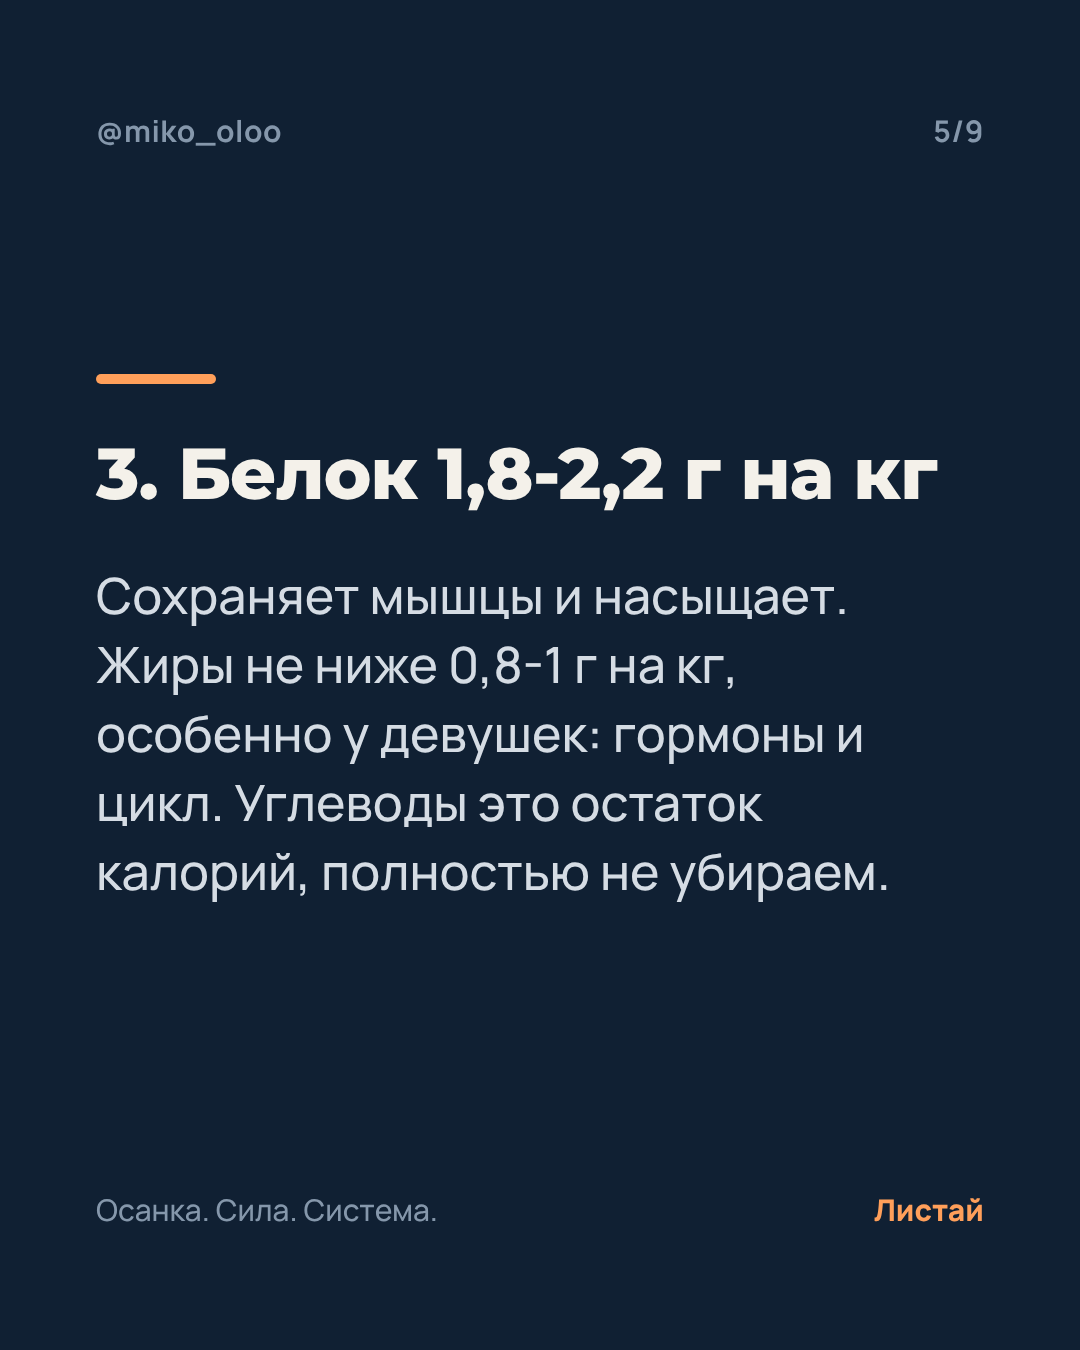
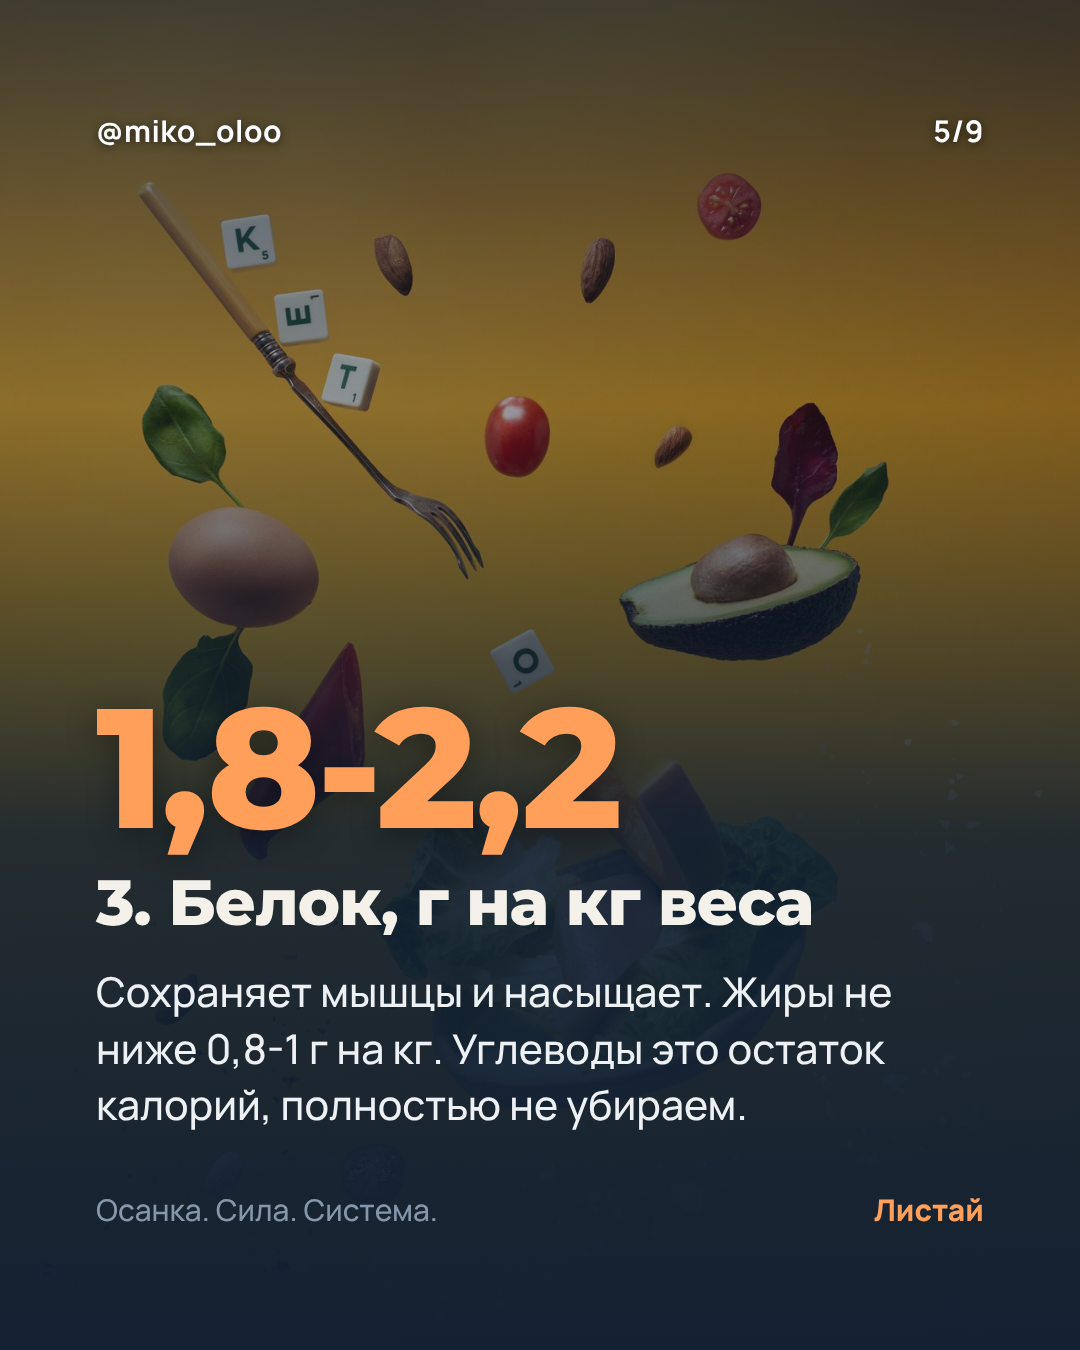
Карусели 2 и 3: фото по теме слайда на всех слайдах кроме одного, обложки с фото, источники и лицензии
Claude-Session: https://claude.ai/code/session_014b6iEBjPGyacsH4fnBbVwQ

diff --git a/content/carousels/img/SOURCES.md b/content/carousels/img/SOURCES.md
@@ -13,3 +13,21 @@
 | Файл | Что | Согласие |
 |---|---|---|
 | own/client_side_01.jpg | Клиент Микаела сбоку, передний наклон таза | Микаел подтвердил использование 23.10 ("Добро"). Лицо размыто |
+
+## Фото на слайдах с 26.10
+Лицензия Pexels: бесплатно, коммерческое использование и изменения разрешены, подпись не нужна (pexels.com/license).
+| Файл | Где | Страница источника | Лицензия |
+|---|---|---|---|
+| src/px_5829910.jpg | c2 обложка | pexels.com/photo/cellphone-and-man-practicing-5829910 | Pexels |
+| src/px_4162596.jpg | c2 слайд 2 | pexels.com/photo/man-sitting-on-stairs-with-headphones-4162596 | Pexels |
+| src/px_27810163.jpg | c2 слайд 5 | pexels.com/photo/a-barbell-and-weights-on-the-floor-in-a-gym-27810163 | Pexels |
+| src/px_9898392.jpg | c2 слайд 9 | pexels.com/photo/a-person-holding-a-cellphone-9898392 | Pexels |
+| src/px_4519057.jpg | c3 обложка | pexels.com/photo/close-up-of-plates-with-healthy-food-4519057 | Pexels |
+| src/px_7991910.jpg | c3 слайд 2 | pexels.com/photo/legs-in-socks-standing-on-scale-7991910 | Pexels |
+| src/px_1640777.jpg | c3 слайд 3 | pexels.com/photo/flat-lay-photography-of-vegetable-salad-on-plate-1640777 | Pexels |
+| src/px_15319043.jpg | c3 слайд 4 | pexels.com/photo/dietitian-measuring-waist-15319043 | Pexels |
+| src/px_10680710.jpg | c3 слайд 5 | pexels.com/photo/vegetable-salad-on-white-ceramic-plate-10680710 | Pexels |
+| src/px_9615241.jpg | c3 слайд 7 | pexels.com/photo/man-bed-bedroom-morning-9615241 | Pexels |
+| src/px_7343000.jpg | c3 слайд 9 | pexels.com/photo/person-using-smartphone-7343000 | Pexels |
+| src/c1_04..07, src/fedb_*.jpg | c1 слайды 4-7, c2 слайды 3, 4, 6, 7, 8, c3 слайд 6 | free-exercise-db (github.com/yuhonas/free-exercise-db) | Unlicense |
+| own/client_side_01_*.jpg | c1 слайды 1, 2, 3, 9 | фото клиента Микаела, лицо размыто | согласие подтвердил Микаел 23.10 |
